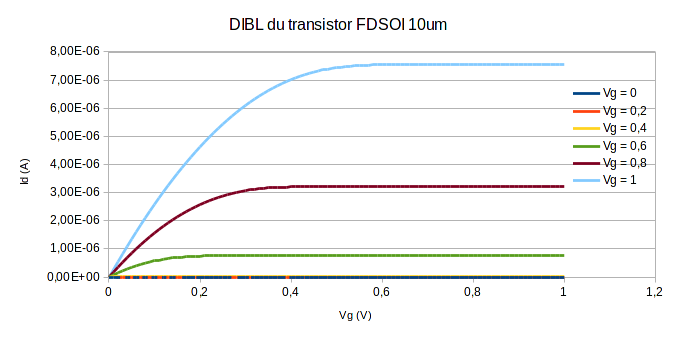
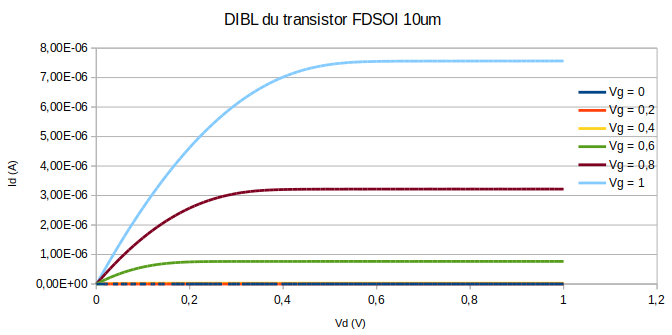
presque la fin je crois

Changed region(s): [[0.0, 0.1194, 1.0, 0.9851], [0.3125, 0.0299, 0.6875, 0.0896], [0.9375, 0.7164, 1.0, 0.7761]]

diff --git a/Caractérisation Électronique/Rapport/BECaracElec.tex b/Caractérisation Électronique/Rapport/BECaracElec.tex
@@ -77,7 +77,7 @@ Lors de l'augmentation de la tension appliquée $V_d$ au transistor, arrive un m
     \begin{center}
         \includegraphics[width=0.9\textwidth]{Images/Canaux_Courts.png}
         \caption{Schéma d'effets de canaux courts}
-        \label{fig:}
+        \label{fig:canaux}
     \end{center}
 \end{figure}
 
@@ -90,7 +90,7 @@ Pour des transistors de taille "classique", le potentiel à chaque bout du canal
     \begin{center}
         \includegraphics[width=0.7\textwidth]{Images/DIBL_schema.png}
         \caption{Potentiel le long du canal pour une grille courte : $V_d$ influe sur $V_{Th}$}
-        \label{fig:}
+        \label{fig:potcanaux}
     \end{center}
 \end{figure}
 
@@ -213,11 +213,7 @@ Pour les transistors FDSOI, on obtient (Figure \ref{yfun_fdsoi_10um}) $V_T=490mV
 
 $I_{d_{N}}$ est alors un paramètre arbitraire, un critère, que l'on pourra utiliser pour une série de transistors dont les dimensions seront différentes, afin de déterminer $V_T$ de manière uniforme.
 
-
-\subsection{Transistor FDSOI}
-%TODO graphe
-
-%TODO calculs
+Cependant, de part le trop faible nombre de transistors fonctionnels, nous n'avons pu mener pleinement à bien cette étude qui requiert plusieurs longueurs de grille différentes afin d'être validée.
 
 \chapter{Mesure du DIBL}
 Le DIBL est également important à connaître car il peut sensiblement modifier les performances du transistor. C'est un effet qui apparait lorsque les  longueurs de grille du transistor deviennent faibles. En effet, il arrive un moment dans la réduction de la longueur de grille où la tension appliquée $V_D$ a un influence sur la tension de seuil. 
@@ -225,10 +221,36 @@ On peut le calculer à partir des données précedentes.
 \[ DIBL = -\frac{V^{DD}_{Th} - V^{low}_{Th}}{V_{DD} - V^{low}_{D}}
 \]
 
+Pour cela, on peut tracer les courbes représentant le courant en fonction de la tension de grille pour deux tensions $V_d$ différentes.
+
+\begin{figure}[h]
+    \begin{center}
+        \includegraphics[width=0.8\textwidth]{Images/logidvg10um}
+        \caption{$log(I_d(V_g))$ du FDSOI, $l = 10\mu m$}
+        \label{logidvg_fdsoi_10um}
+    \end{center}
+\end{figure}
+
+On remarque sur la figure \ref{logidvg_fdsoi_10um} que les deux courbes sont presques confondues, la tension $V_d$ n'a que peu d'influence sur la tension de seuil, si bien qu'on peut considérer le DIBL nul : les deux tensions de seuils sont trop proches.
+
+\begin{figure}[h]
+    \begin{center}
+        \includegraphics[width=0.8\textwidth]{Images/logidvg30nm}
+        \caption{$log(I_d(V_g))$ du FDSOI, $l = 30nm$}
+        \label{logidvg_fdsoi_30nm}
+    \end{center}
+\end{figure}
+
+En revanche, sur la figure \ref{logidvg_fdsoi_30nm} on remarque clairement un décalage des deux courbes. Le DIBL est important, ce qui est logique pour un transistor de longueur de grille 30nm. 
+
+\[DIBL = 210mV/V\]
+
+On peut également rémarquer l'effet du DIBL sur les caractéristiques $I_d(V_d)$
+
 \begin{figure}[h]
     \begin{center}
         \includegraphics[width=0.8\textwidth]{Images/DIBL-11-30}
-        \caption{$I_d(V_g)$ du FDSOI, $l = 30nm$}
+        \caption{$I_d(V_d)$ du FDSOI, $l = 30nm$}
         \label{DIBL_fdsoi_30nm}
     \end{center}
 \end{figure}
@@ -237,22 +259,17 @@ On peut le calculer à partir des données précedentes.
 \begin{figure}[h]
     \begin{center}
         \includegraphics[width=0.8\textwidth]{Images/DIBL-1-10}
-        \caption{$I_d(V_g)$ du FDSOI, $l =10\mu m$}
+        \caption{$I_d(V_d)$ du FDSOI, $l =10\mu m$}
         \label{DIBL_fdsoi_10um}
     \end{center}
 \end{figure}
-%TODO calculs
-On peut vérifier ces calculs en regardant la cours en log.
-%TODO graphe
-On peut également voir l'effet du DIBL en traçant des caractéristiques $I_d(V_d)$.
-%TODO graphe 
 
-\section{Comparaison des architectures}
+Sur ces courbes, on remarque que pour le transistor de $10\mu m$, dans la zone saturée le courant $I_d$ ne dépend plus de $V_d$, il est constant, tandis que pour le transistor court, la pente est non nulle. Cette pente provient du DIBL et ne correspond pas au fonctionnement normal d'un transistor "idéal".
 
 \chapter*{Conclusion}
 \addcontentsline{toc}{chapter}{Conclusion}
 
-Ce TP nous a permis de découvir plus en détails la caractérisation électronique que nous avions abordé l'an passé en caractérisant des diodes et des capacités. Nous avons ainsi pu observer le comportement electrique de différents transistors (Architecture bulk et FDSOI) de taille différentes et d'étudier leurs performances. De plus ce TP est un complément aux cours de composants car il permet de visualiser en pratique les résultats affirmés en cours. Nous avons pu mesurer les caractéristiques tracées à main levée en cours et trouver les caractéristiques des transistors, mesures classiques en microéléctroniques.
+Ce TP nous a permis de découvir plus en détails la caractérisation électronique que nous avions abordé l'an passé en caractérisant des diodes et des capacités. Nous avons ainsi pu observer le comportement electrique de différents transistors (Architecture bulk et FDSOI) de taille différentes et d'étudier leurs performances. De plus ce TP est un complément aux cours de composants car il permet de visualiser en pratique les résultats affirmés en cours. Nous avons pu mesurer les caractéristiques tracées à main levée en cours et trouver les caractéristiques des transistors, mesures classiques en microéléctroniques. Ces éléments seront importants par la suite car ces mesures et calculs sont systématique pour beaucoup de parties des processus d'élaboration en microélectronique, en phases de tests autant qu'en phase de fiabilité par exemple.
 
 
 
